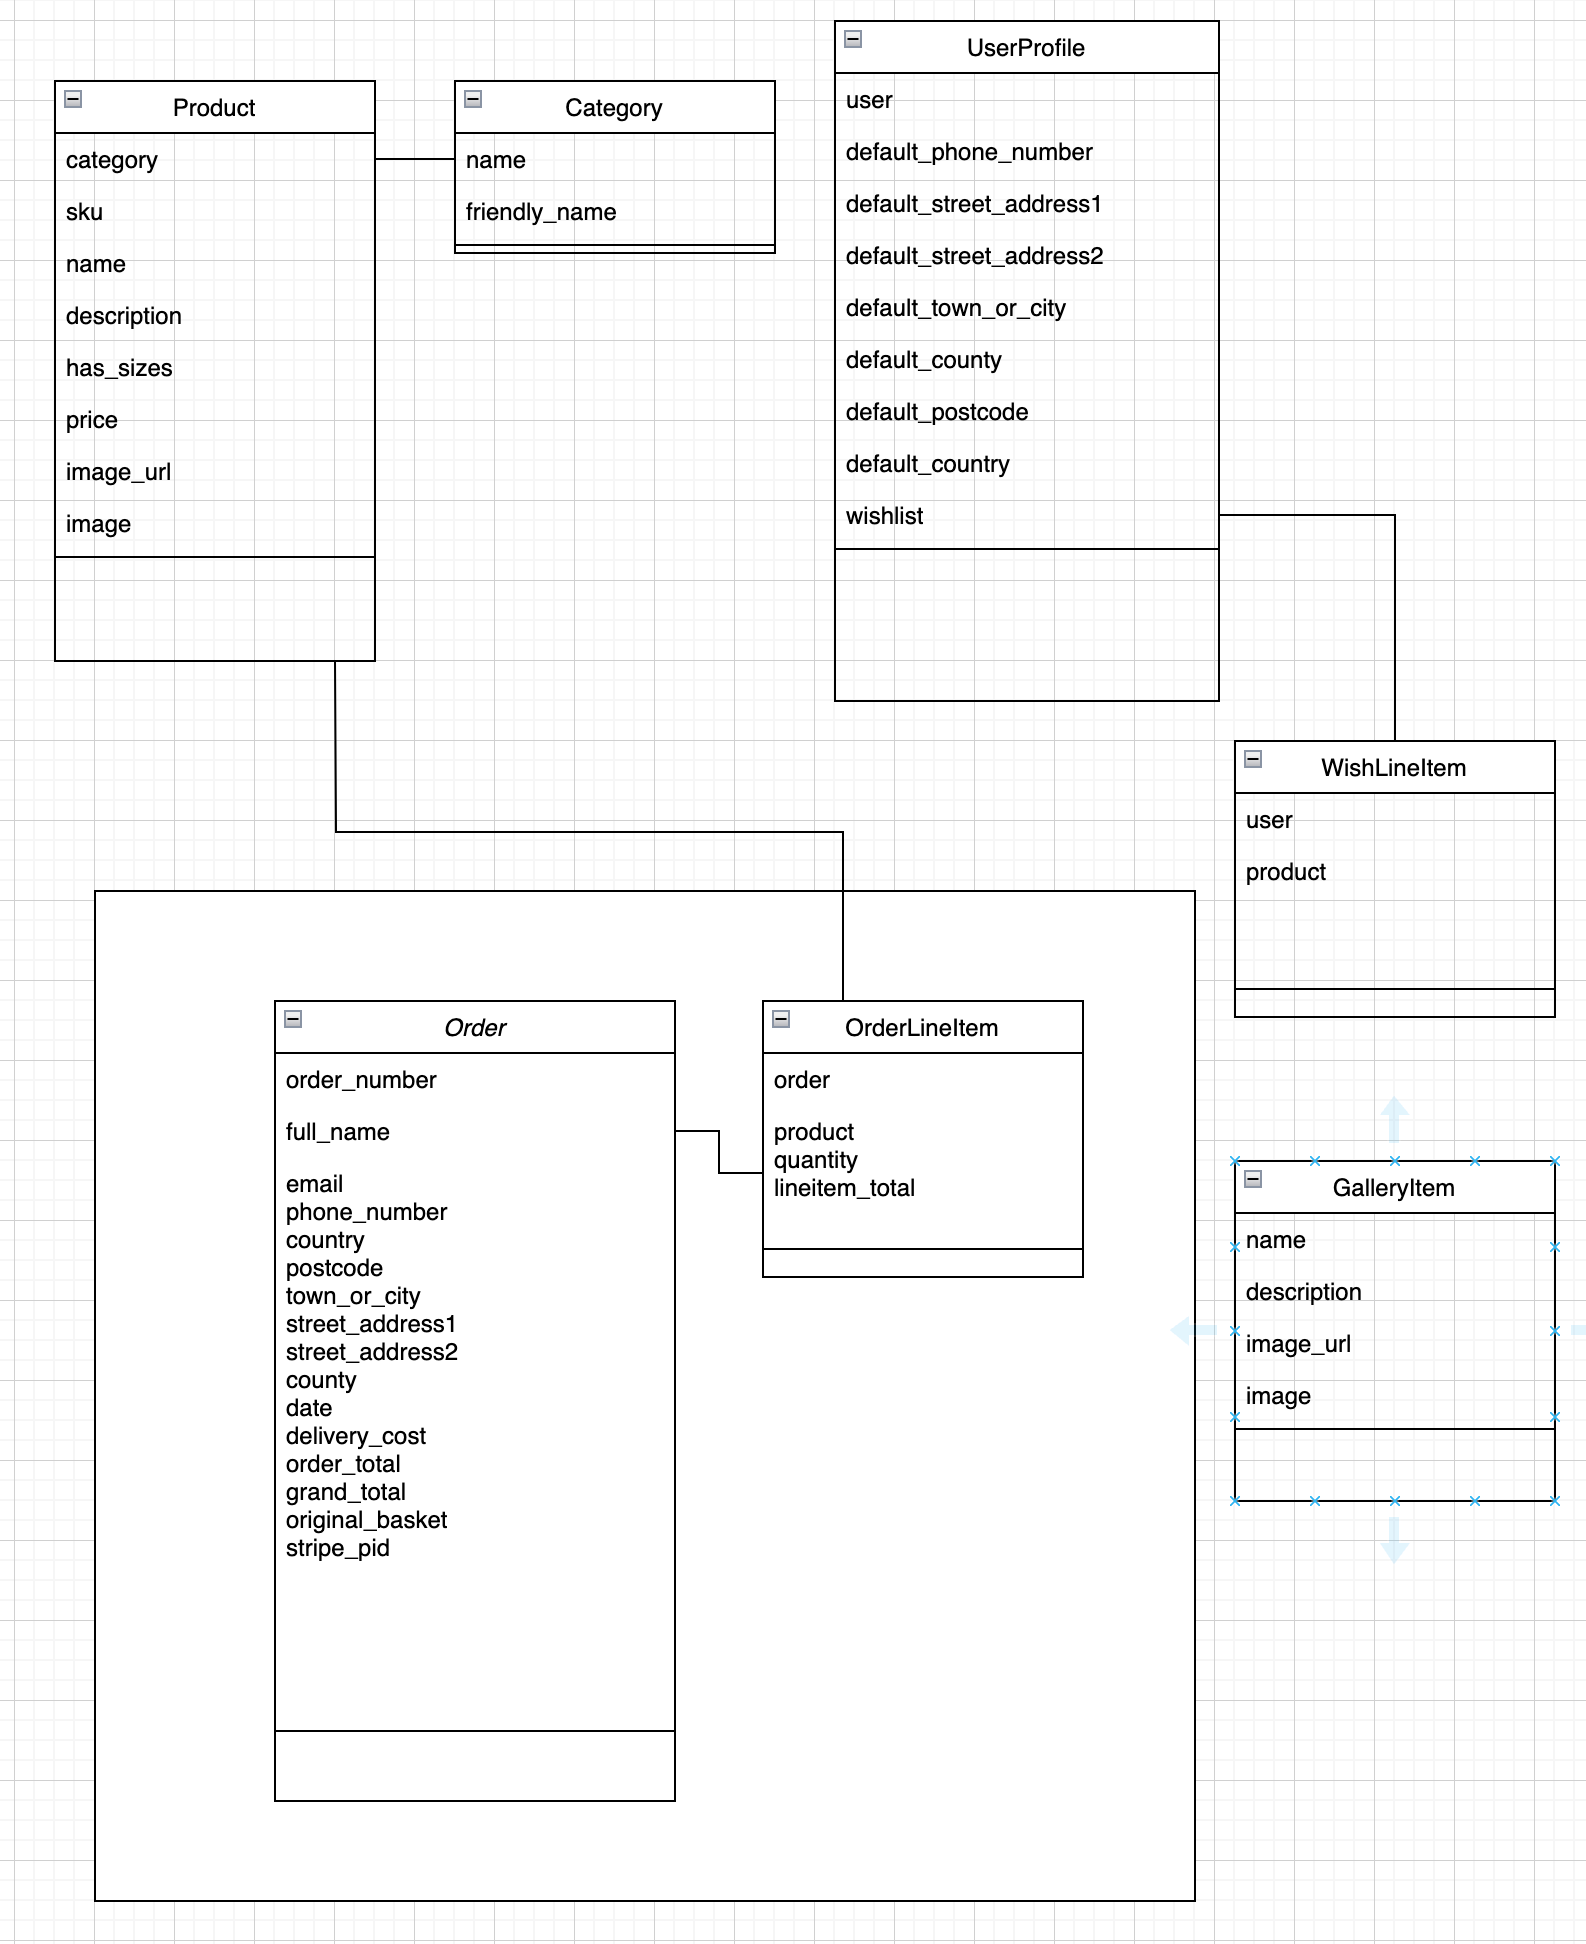
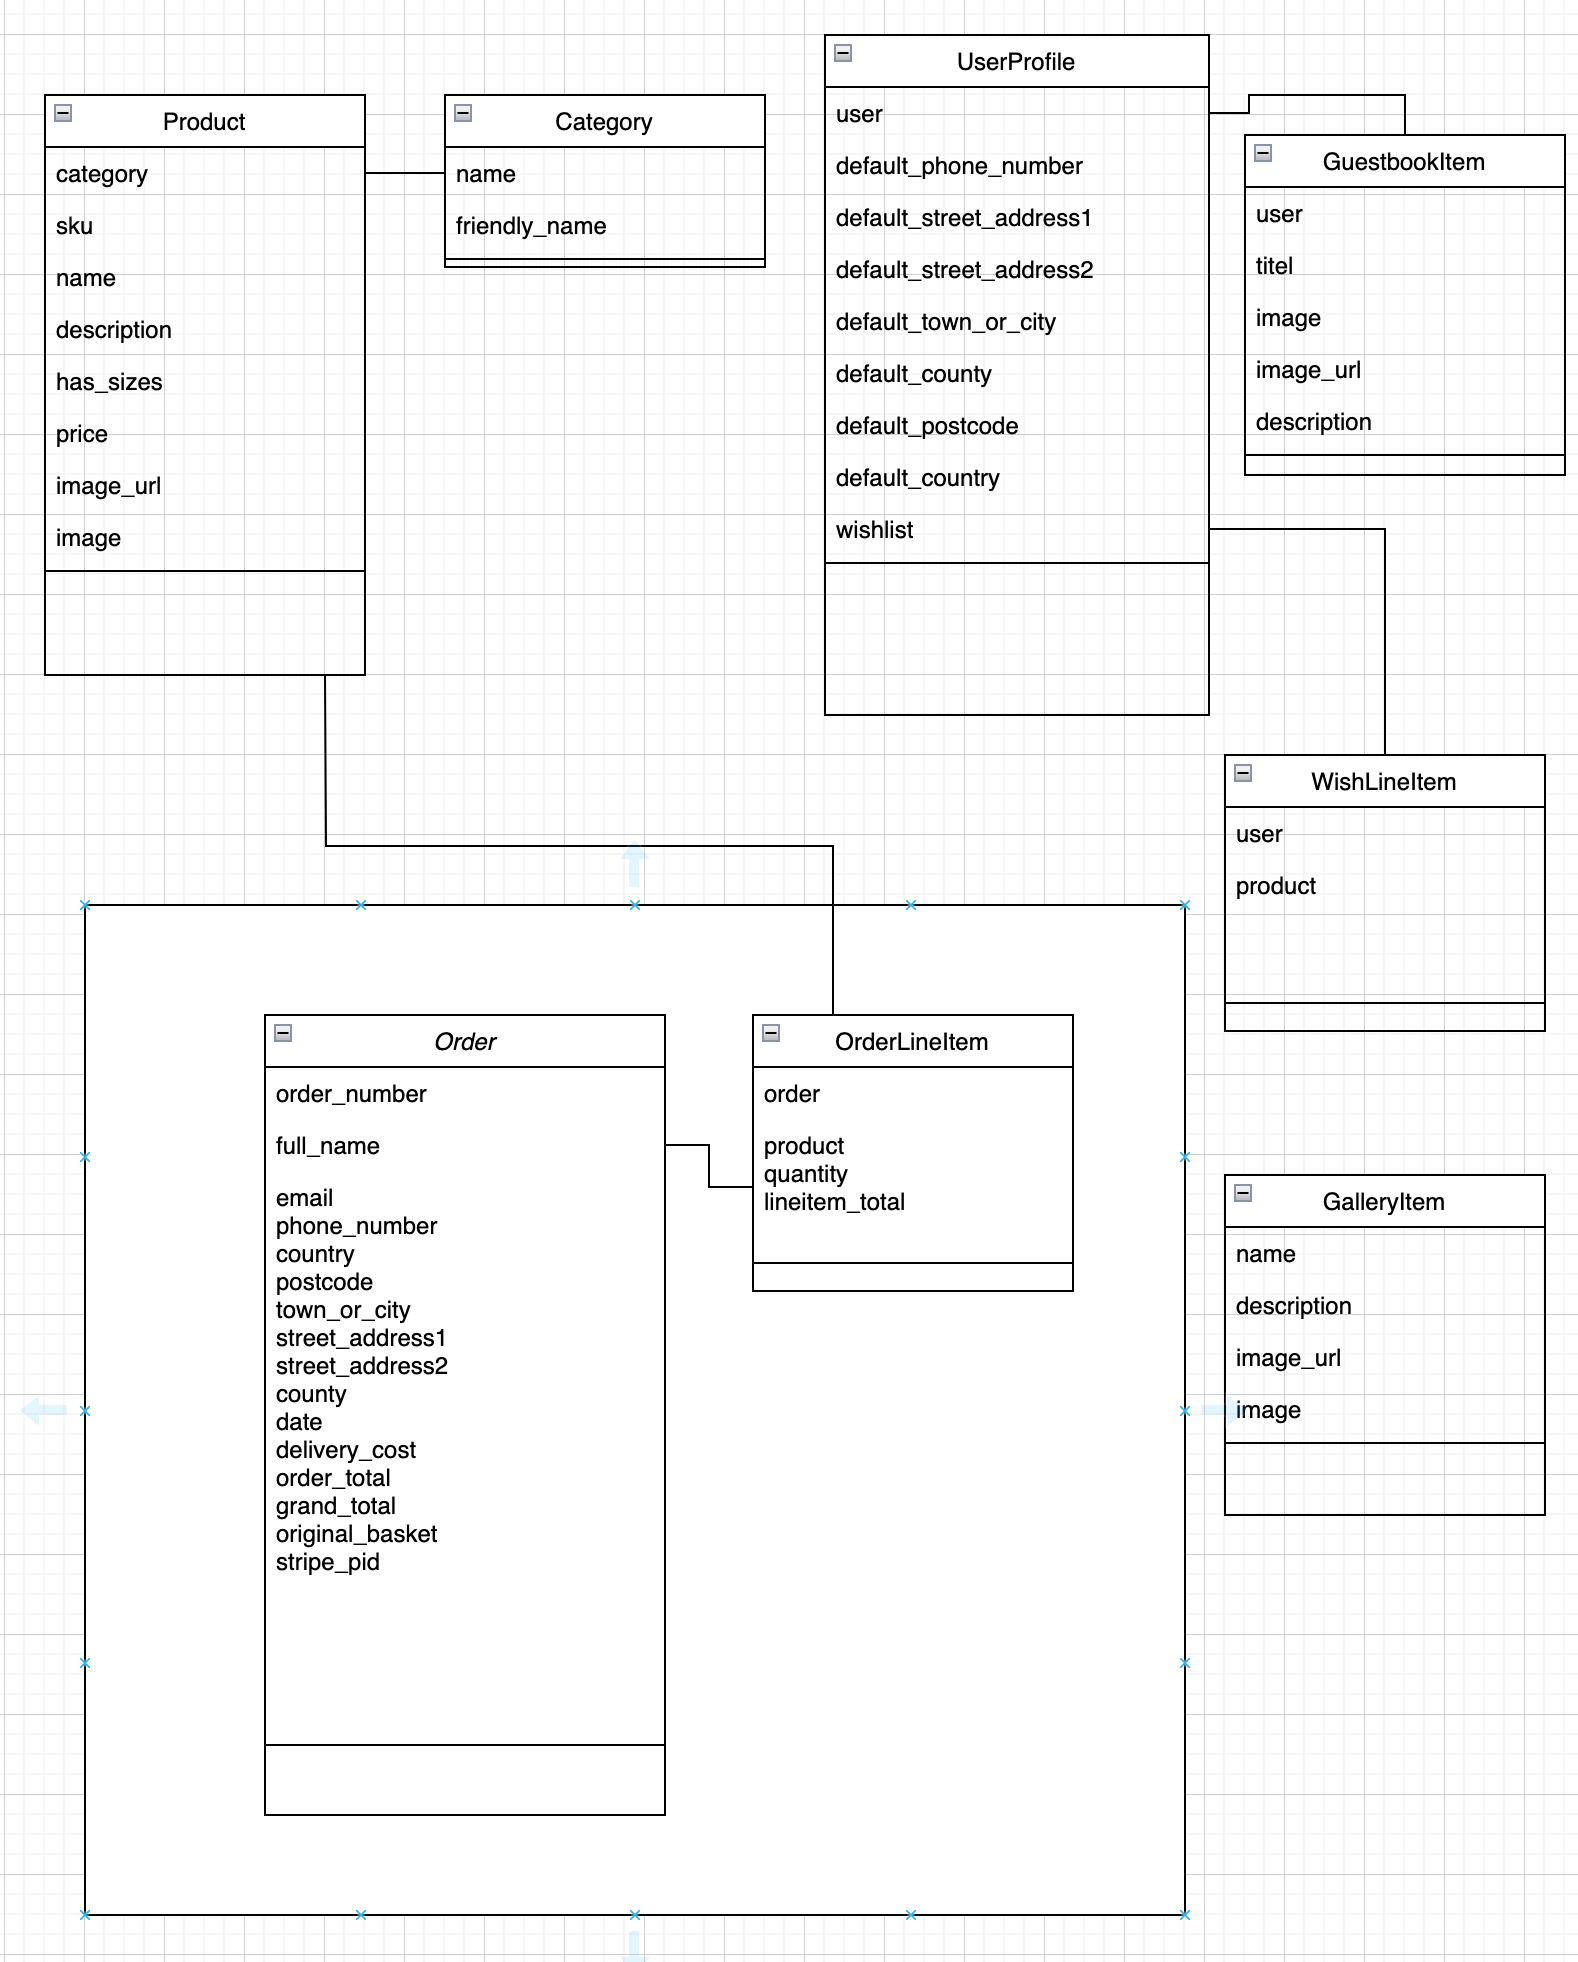
Update README for datamodel

diff --git a/README.md b/README.md
@@ -196,7 +196,7 @@ Gallery for exciting builds and sets, that store image and description for examp
 - My own step in development is to study and learn React (and also React Native), so my goal is to change frontend code to React Frontend.
 
 # Data model
-Datamodel is implemented with Django framework and custom database has been added for wishlist and some more items.
+Datamodel is implemented with Django framework and custom database has been added for wishlist, gallery and Guestbook.
 
 ![](docs/images/datamodel.png)
   
